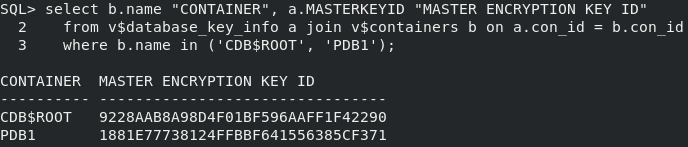
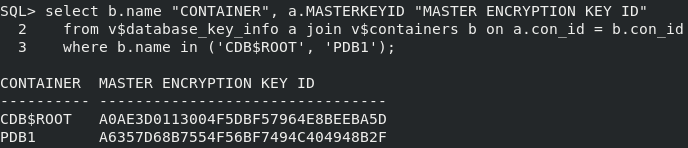
Updated screenshots for Lab 10 + added acknowledgements

diff --git a/database/advanced/key-vault/key-vault-Lab8.md b/database/advanced/key-vault/key-vault-Lab8.md
@@ -23,7 +23,7 @@ This lab builds on concepts and operations from lab 5. Complete lab 5 first befo
     </copy>
     ````
 
-   ![Key Vault](./images/Screenshot_2025-10-03_15.56.40.png "List the IDs of the keys in the local secure persistent cache")
+    ![Key Vault](./images/Screenshot_2025-10-03_15.56.40.png "List the IDs of the keys in the local secure persistent cache")
 
 ## Task 2: Simulate network outage
 
@@ -51,7 +51,7 @@ This lab builds on concepts and operations from lab 5. Complete lab 5 first befo
 
     The retrieval of key IDs from Key Vault will fail because the network connection between the database and the Key Vault server is disconnected.
 
-   ![Key Vault](./images/Screenshot_2025-10-03_15.59.33.png "Check if the server is unreachable")
+    ![Key Vault](./images/Screenshot_2025-10-03_15.59.33.png "Check if the server is unreachable")
 
 ## Task 3: Confirm database resilience with persistent cache by creating a new encrypted tablespace
 
@@ -65,7 +65,7 @@ This lab builds on concepts and operations from lab 5. Complete lab 5 first befo
     </copy>
     ````
 
-   ![Key Vault](./images/Screenshot_2025-10-03_16.01.30.png "Create a new encrypted tablespace")
+    ![Key Vault](./images/Screenshot_2025-10-03_16.01.30.png "Create a new encrypted tablespace")
 
 2. Verify the new tablespace was created
 
@@ -77,7 +77,7 @@ This lab builds on concepts and operations from lab 5. Complete lab 5 first befo
     </copy>
     ````
 
-   ![Key Vault](./images/Screenshot_2025-10-03_16.03.05.png "Verify the new tablespace was created")
+    ![Key Vault](./images/Screenshot_2025-10-03_16.03.05.png "Verify the new tablespace was created")
 
 ## Task 4: Re-establish connectivity between the database and Key Vault
 
@@ -99,4 +99,9 @@ This lab builds on concepts and operations from lab 5. Complete lab 5 first befo
     </copy>
     ````
 
-   ![Key Vault](./images/Screenshot_2025-11-10_16.37.08.png "Ensure the server is reachable")
+    ![Key Vault](./images/Screenshot_2025-11-10_16.37.08.png "Ensure the server is reachable")
+
+## Acknowledgements
+- **Author** - Shubham Goyal
+- **Contributors** - Peter Wahl, Rahil Mir
+- **Last Updated By/Date** - Shubham Goyal - March 2026

diff --git a/database/advanced/key-vault/key-vault-Lab9.md b/database/advanced/key-vault/key-vault-Lab9.md
@@ -13,7 +13,7 @@ This lab builds on concepts and operations from lab 8. Complete lab 8 first befo
 
 ## Task 1: Generate a Non-Extractable key
 
-1.  Log in to Key Vault as user **KVRESTADMIN**
+1. Log in to Key Vault as user **KVRESTADMIN**
 
     Get the password of KVRESTADMIN by executing this command
 
@@ -33,7 +33,7 @@ This lab builds on concepts and operations from lab 8. Complete lab 8 first befo
 
     ![Key Vault](./images/Screenshot_2025-10-03_14.29.00.png "Set the Extractable Attribute for the Symmetric Key to False")
 
-4.  On the database host, set a new Transparent Data Encryption Key. The new key created in Key Vault will be generated with the 'Non Extractable' attribute set
+4. On the database host, set a new Transparent Data Encryption Key. The new key created in Key Vault will be generated with the 'Non Extractable' attribute set
 
     ```
     <copy>
@@ -67,7 +67,7 @@ This lab builds on concepts and operations from lab 8. Complete lab 8 first befo
     </copy>
     ````
 
-   ![Key Vault](./images/Screenshot_2025-10-03_15.59.33.png "Check if the server is unreachable")
+    ![Key Vault](./images/Screenshot_2025-10-03_15.59.33.png "Check if the server is unreachable")
 
 ## Task 3: Attempt to create a new tablespace to confirm that database operations fail even when the secure persistent cache exists
 
@@ -85,7 +85,7 @@ This lab builds on concepts and operations from lab 8. Complete lab 8 first befo
 
     The creation of an encrypted tablespace fails because the non-extractable key cannot exist in the persistent cache, and the database cannot fetch it from Key Vault since the connection was disconnected in Task 2. This underscores that non-extractable keys cannot be accessed outside of Key Vault and that this deployment can be leveraged to provide higher levels of assurance in environments with a lower security posture.
 
-   ![Key Vault](./images/Screenshot_2025-10-07_22.09.24.png "Attempt to create a new tablespace")
+    ![Key Vault](./images/Screenshot_2025-10-07_22.09.24.png "Attempt to create a new tablespace")
 
 
 ## Task 4: Re-establish connectivity between the database and Key Vault
@@ -108,5 +108,9 @@ This lab builds on concepts and operations from lab 8. Complete lab 8 first befo
     </copy>
     ````
 
-   ![Key Vault](./images/Screenshot_2025-10-03_16.04.40.png "Ensure the server is reachable")
+    ![Key Vault](./images/Screenshot_2025-10-03_16.04.40.png "Ensure the server is reachable")
 
+## Acknowledgements
+- **Author** - Shubham Goyal
+- **Contributors** - Peter Wahl, Rahil Mir
+- **Last Updated By/Date** - Shubham Goyal - March 2026

diff --git a/database/advanced/key-vault/key-vault-Lab6.md b/database/advanced/key-vault/key-vault-Lab6.md
@@ -25,7 +25,7 @@ This lab builds on concepts and operations from lab 5. Complete lab 5 first befo
     </copy>
     ````
 
-   ![Key Vault](./images/image-2025-09-27_upload.png "Upload the pre-migration key from the local TDE wallet into the OKV wallet that you created in Lab 5:")
+    ![Key Vault](./images/image-2025-09-27_upload.png "Upload the pre-migration key from the local TDE wallet into the OKV wallet that you created in Lab 5:")
 
 2. Set the TDE_CONFIGURATION of the database to "OKV"
 
@@ -37,7 +37,7 @@ This lab builds on concepts and operations from lab 5. Complete lab 5 first befo
     </copy>
     ````
 
-   ![Key Vault](./images/TDE_CONFIG_OKV.png "Set the TDE_CONFIGURATION to 'OKV'")
+    ![Key Vault](./images/TDE_CONFIG_OKV.png "Set the TDE_CONFIGURATION to 'OKV'")
 
 3. To ensure security, delete the local TDE wallet from &lt;WALLET_ROOT&gt;/tde
 
@@ -48,4 +48,9 @@ This lab builds on concepts and operations from lab 5. Complete lab 5 first befo
     </copy>
     ````
 
-   ![Key Vault](./images/image-2025-09-05-delete-wallet-after-upload.png "To ensure security, delete the local TDE wallet from <WALLET_ROOT>/tde:")
+    ![Key Vault](./images/image-2025-09-05-delete-wallet-after-upload.png "To ensure security, delete the local TDE wallet from <WALLET_ROOT>/tde:")
+
+## Acknowledgements
+- **Author** - Shubham Goyal
+- **Contributors** - Peter Wahl, Rahil Mir
+- **Last Updated By/Date** - Shubham Goyal - March 2026

diff --git a/database/advanced/key-vault/key-vault-Lab10.md b/database/advanced/key-vault/key-vault-Lab10.md
@@ -45,7 +45,7 @@ This lab builds on concepts and operations from lab 9. Complete lab 9 first befo
     ````
     <copy>
     sqlplus / as sysdba
-    ADMINISTER KEY MANAGEMENT SET KEY FORCE KEYSTORE IDENTIFIED BY EXTERNAL STORE;
+    ADMINISTER KEY MANAGEMENT SET KEY FORCE KEYSTORE IDENTIFIED BY EXTERNAL STORE CONTAINER = ALL;
     exit;
     </copy>
     ````
@@ -68,3 +68,8 @@ This lab builds on concepts and operations from lab 9. Complete lab 9 first befo
     ```
 
     ![Key Vault](./images/Screenshot_2025-10-07_23.39.39.png "Verify that the tablespace was re-keyed")
+
+## Acknowledgements
+- **Author** - Shubham Goyal
+- **Contributors** - Daniel Wu, Peter Wahl, Rahil Mir
+- **Last Updated By/Date** - Shubham Goyal - March 2026

diff --git a/database/advanced/key-vault/key-vault-Lab7.md b/database/advanced/key-vault/key-vault-Lab7.md
@@ -23,7 +23,7 @@ This lab builds on concepts and operations from lab 6. Complete lab 6 first befo
     </copy>
     ````
 
-   ![Key Vault](./images/image-2025-09-25_11-48-23.png "Create a new local auto-login wallet in <WALLET_ROOT>/tde and add the Key Vault endpoint password")
+    ![Key Vault](./images/image-2025-09-25_11-48-23.png "Create a new local auto-login wallet in <WALLET_ROOT>/tde and add the Key Vault endpoint password")
 
 2. Update the Transparent Data Encryption (TDE) configuration of the database to 'OKV|FILE' so it can locate the new auto-login wallet in the specified &lt;WALLET_ROOT&gt;/tde directory.
 
@@ -67,3 +67,8 @@ This lab builds on concepts and operations from lab 6. Complete lab 6 first befo
     ```
     
     ![Key Vault](./images/Screenshot_2025-10-07_23.08.12.png "Confirm that the auto-login wallet has been correctly configured and is operational")
+
+## Acknowledgements
+- **Author** - Shubham Goyal
+- **Contributors** - Peter Wahl, Rahil Mir
+- **Last Updated By/Date** - Shubham Goyal - March 2026

diff --git a/database/advanced/key-vault/key-vault-Lab11.md b/database/advanced/key-vault/key-vault-Lab11.md
@@ -95,3 +95,8 @@ This lab builds on concepts and operations from lab 10. Complete lab 10 first be
     ```
 
     ![Key Vault](./images/Screenshot_2025-10-08_12.12.47.png "Verify that the tablespace was re-keyed")
+
+## Acknowledgements
+- **Author** - Shubham Goyal
+- **Contributors** - Peter Wahl, Rahil Mir
+- **Last Updated By/Date** - Shubham Goyal - March 2026

diff --git a/database/advanced/key-vault/key-vault-Lab12.md b/database/advanced/key-vault/key-vault-Lab12.md
@@ -290,3 +290,8 @@ A Key Vault cluster provides continuous availability of your keys to ensure unin
     This section highlights how many read-write pairs are part of the cluster as well as the cluster service status. For now, there is just one node that we setup.
 
     ![Key Vault](./images/image-2025-09-11-19.02.06.png "On the Home page, the System Overview section at the bottom is updated, identifying the deployment mode as Cluster")
+
+## Acknowledgements
+- **Author** - Shubham Goyal
+- **Contributors** - Peter Wahl, Rahil Mir
+- **Last Updated By/Date** - Shubham Goyal - March 2026

diff --git a/database/advanced/key-vault/key-vault-Lab4.md b/database/advanced/key-vault/key-vault-Lab4.md
@@ -49,3 +49,8 @@ The script will display the output:
 5. A list of encrypted RMAN backups
 
 ![Key Vault](./images/OKV-LL4-001e.png "A list of encrypted RMAN backups")
+
+## Acknowledgements
+- **Author** - Shubham Goyal
+- **Contributors** - Peter Wahl, Rahil Mir
+- **Last Updated By/Date** - Shubham Goyal - March 2026

diff --git a/database/advanced/key-vault/key-vault-Lab5.md b/database/advanced/key-vault/key-vault-Lab5.md
@@ -203,3 +203,8 @@ This lab builds on concepts and operations from lab 4. Complete lab 4 first befo
     - In the wallet status, you'll see the wallet of type OKV is open
     
     ![Key Vault](./images/image-2025-7-24_17-8-50.png "Review the database setup after migrating to Key Vault")
+
+## Acknowledgements
+- **Author** - Shubham Goyal
+- **Contributors** - Peter Wahl, Rahil Mir
+- **Last Updated By/Date** - Shubham Goyal - March 2026